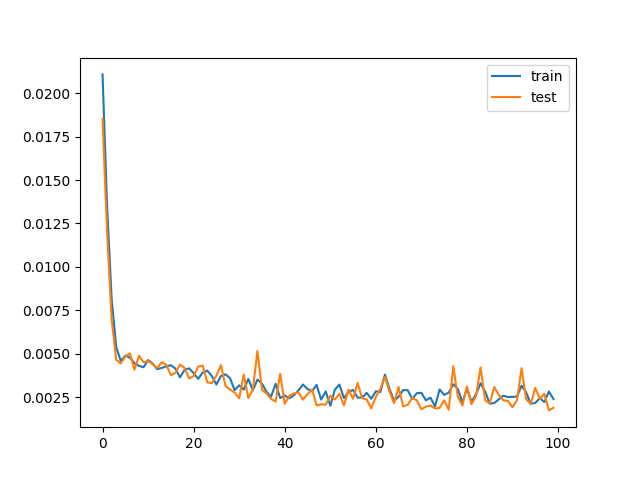
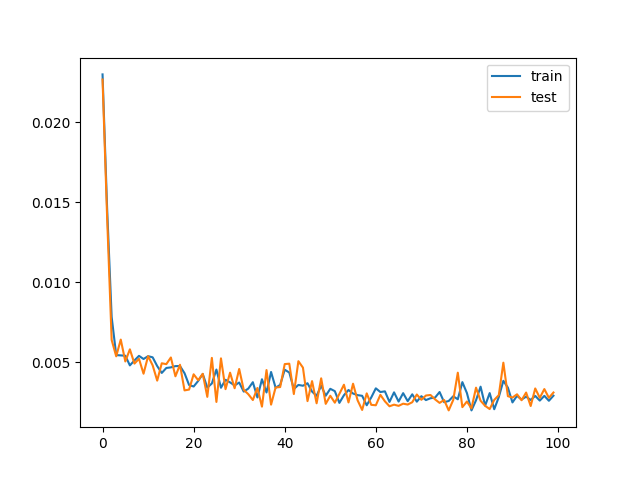
Plotting 7-days ahead forecast by LSTM

diff --git a/lstm/lstm_all_countries.py b/lstm/lstm_all_countries.py
@@ -1,7 +1,7 @@
 import pandas as pd
 import json
 import matplotlib.pyplot as plt
-from datetime import date
+from datetime import date, datetime, timedelta
 from numpy import concatenate
 from sklearn.preprocessing import MinMaxScaler
 from sklearn.metrics import mean_absolute_error
@@ -50,6 +50,15 @@ def date_to_number(d):
     return (date.fromisoformat(d) - date.fromisoformat("2019-12-31")).days
 
 
+def number_to_datetime(n):
+    """
+    Revert date_to_number(d)
+    :param n: int days since 2019-12-31
+    :return: string iso_format "YYYY-MM-DD"
+    """
+    return datetime.fromisoformat("2019-12-31") + timedelta(days=n)
+
+
 with open("../data/iso_country_codes.json", "r") as read_file:
     iso_codes = json.load(read_file)
 
@@ -76,12 +85,13 @@ def date_scaling(d): return (date_to_number(d) - scaler.data_min_[0]) / (scaler.
 
 
 # All countries have data from 2019-12-31 to 2020-10-27.
-# The first 7 and last 6 observations have nan values due to series_to_in_out_pairs()
-# We remove those 6 last observations and all observations before march.
+# The first 7 have nan values due to series_to_in_out_pairs()
+# We remove all observations before march.
 # Europe's habits have changed since before march 2020, newer data is more interesting
-# I choose the period from 2020-03-01 to 2020-10-21, that is 235 days
-forecast_data = forecast_data[forecast_data["date"] >= date_scaling("2020-03-01")]
-forecast_data = forecast_data[forecast_data["date"] <= date_scaling("2020-10-21")]
+# I choose the period from 2020-03-01 to 2020-10-27, that is 241 days
+start_date, end_date = "2020-03-01", "2020-10-27"
+forecast_data = forecast_data[forecast_data["date"] >= date_scaling(start_date)]
+forecast_data = forecast_data[forecast_data["date"] <= date_scaling(end_date)]
 
 train_df = forecast_data[forecast_data["iso_code"].isin(train_codes)]
 test_df = forecast_data[forecast_data["iso_code"].isin(test_codes)]
@@ -111,7 +121,7 @@ history = model.fit(
     train_x,
     train_y,
     epochs=100,
-    batch_size=235,
+    batch_size=date_to_number(end_date) - date_to_number(start_date) + 1,
     validation_data=(test_x, test_y),
     verbose=2,
     shuffle=False
@@ -121,25 +131,6 @@ plt.plot(history.history['loss'], label='train')
 plt.plot(history.history['val_loss'], label='test')
 plt.legend()
 plt.savefig("training_loss.png")
-
-# model2 = Sequential()
-# model2.add(Dense(50, input_shape=(train_x.shape[1], train_x.shape[2]), activation="relu"))
-# model2.add(Dense(20, activation="relu"))
-# model2.add(Dense(1, activation="relu"))
-# model2.compile(loss="mae", optimizer="adam")
-# history2 = model2.fit(
-#     train_x,
-#     train_y,
-#     epochs=100,
-#     batch_size=235,
-#     validation_data=(test_x, test_y),
-#     verbose=2,
-#     shuffle=False
-# )
-# plt.plot(history2.history['loss'], label='train')
-# plt.plot(history2.history['val_loss'], label='test')
-# plt.legend()
-# plt.show()
 
 # Evaluate model
 scaled_prediction = model.predict(test_x)
@@ -155,3 +146,59 @@ y = actual_test[:, -1]
 
 mae = mean_absolute_error(y_hat, y)
 print("MAE: ", mae)
+print("\n")
+
+# Plot 7 steps ahead forecast for all countries.
+n_pred_steps = 7
+for code in iso_codes:
+    country_data = forecast_data[forecast_data["iso_code"] == code]
+    country_data = country_data.drop(columns=["iso_code"])
+
+    last_entry = country_data[country_data["date"] == date_scaling(end_date)]
+    last_entry = last_entry.values[:, : n_obs]
+    last_entry = last_entry.reshape(1, 1, test_x.shape[1])
+    prediction = model.predict(last_entry)
+    first_pred_date = (date.fromisoformat(end_date)+timedelta(days=1))
+    predicted_values = concatenate((
+        [date_scaling(first_pred_date.isoformat())],
+        last_entry[0, 0, 1:3],
+        last_entry[0, 0, 4:],
+        prediction[0]))
+    predicted_values = predicted_values.reshape((1, 1, test_x.shape[1]))
+
+    for i in range(1, n_pred_steps):  # 6 more days
+        last_entry = predicted_values[-1:, :, :]
+        new_prediction = model.predict(last_entry)
+        new_date = (first_pred_date + timedelta(days=i)).isoformat()
+        new_last_row = concatenate((
+            [date_scaling(new_date)],
+            predicted_values[-1, 0, 1:3],
+            predicted_values[-1, 0, 4:],
+            new_prediction[0]))
+        new_last_row = new_last_row.reshape((1, 1, test_x.shape[1]))
+        predicted_values = concatenate((predicted_values, new_last_row))
+
+    predicted_values = predicted_values.reshape((predicted_values.shape[0], predicted_values.shape[2]))
+    predicted_values = concatenate((predicted_values[:, 0:3], predicted_values[:, -1:]), axis=1)
+    predicted_values = scaler.inverse_transform(predicted_values)
+
+    pred_x = predicted_values[:, 0].reshape(n_pred_steps)
+    pred_y = predicted_values[:, 3].reshape(n_pred_steps)
+    pred_dates = [number_to_datetime(round(x)) for x in pred_x]
+
+    recent_history = country_data[["date", "latitude", "longitude", "new_smooth_per_mill_(t+0)"]].values
+    recent_history = scaler.inverse_transform(recent_history)
+    recent_x = recent_history[-21:, 0].reshape(-14)
+    recent_y = recent_history[-21:, 3].reshape(-14)
+    recent_dates = [number_to_datetime(round(x)) for x in recent_x]
+
+    plt.plot_date(recent_dates, recent_y, "r-")
+    plt.plot_date(pred_dates, pred_y, "b-")
+    plt.xticks(rotation=30, horizontalalignment="right")
+    plt.title(code)
+    plt.xlabel("Time")  # FIXME: Find out why this doesn't render
+    plt.ylabel("Cases")
+    plt.grid(True, "major", "y", color="grey", linewidth=0.2)
+    plt.legend(["New cases per 1 000 000 population 7-days smoothed", "7 days ahead forecast"])
+    plt.savefig("plots/{:s}.png".format(code))
+    plt.clf()
